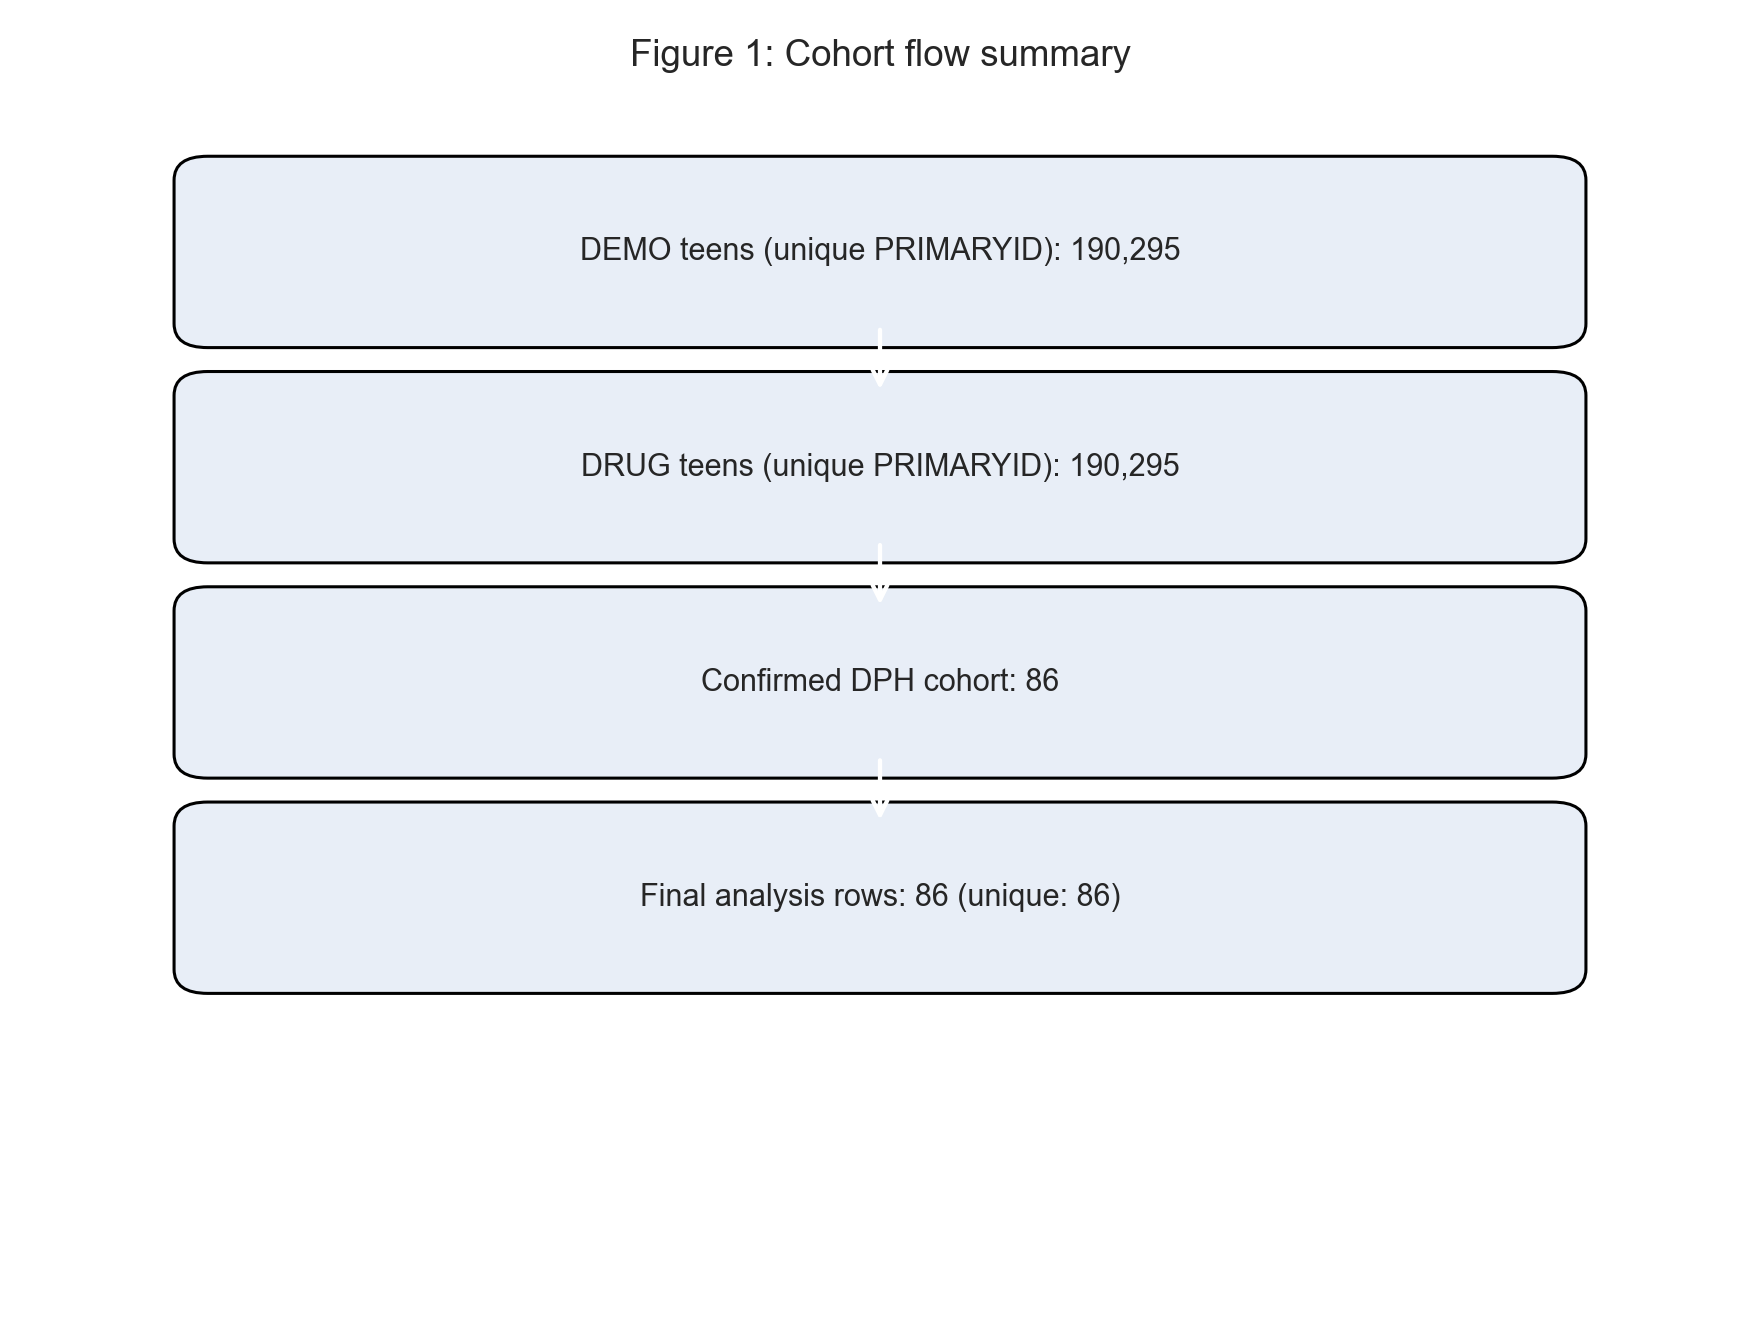
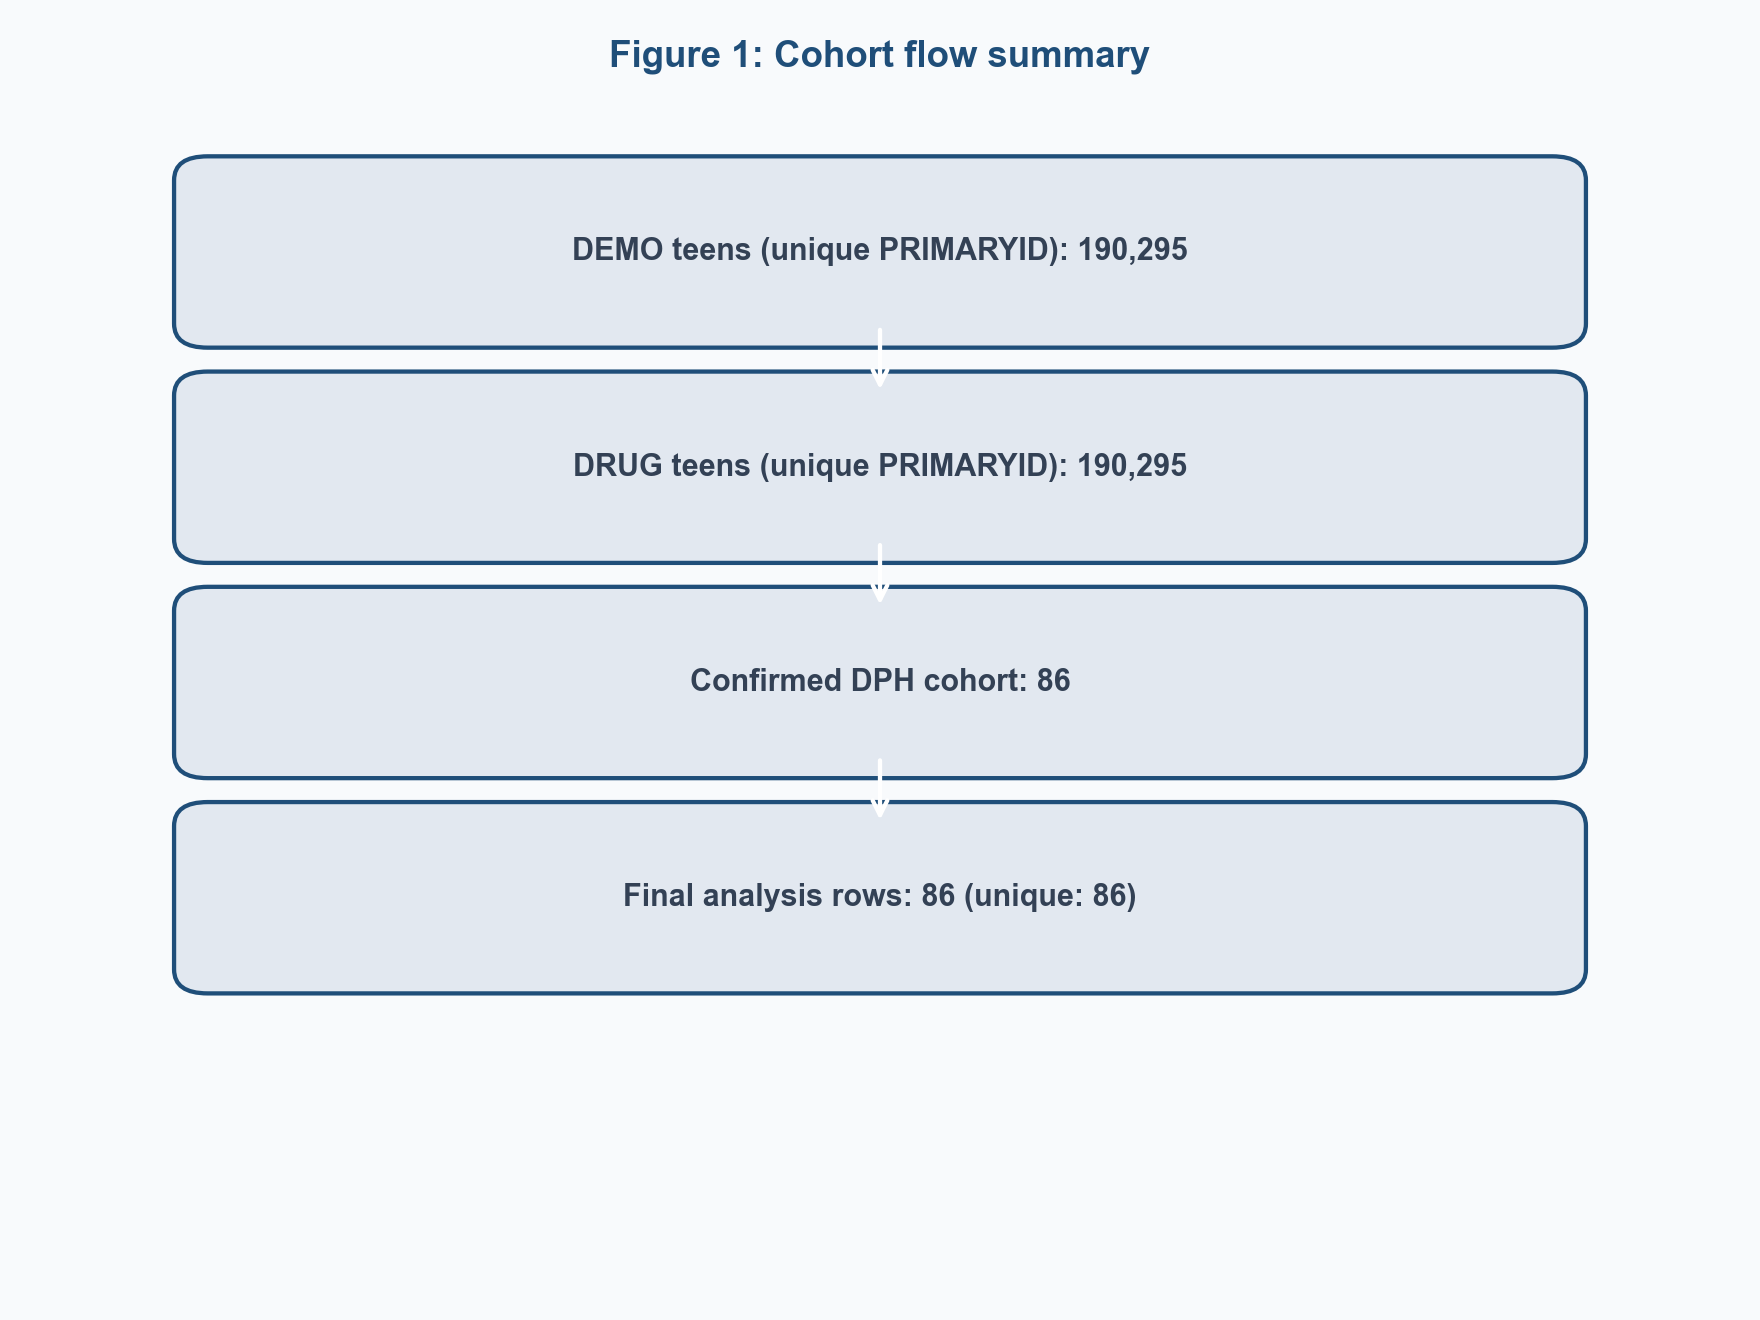
viz: improve figure spacing and readability

diff --git a/06_analysis/run_advanced_analysis.py b/06_analysis/run_advanced_analysis.py
@@ -6,6 +6,7 @@ import pandas as pd
 import matplotlib.pyplot as plt
 import seaborn as sns
 from matplotlib.patches import FancyBboxPatch
+from matplotlib import patheffects
 from scipy.stats import shapiro, mannwhitneyu, kruskal, spearmanr
 import scikit_posthocs as sp
 import statsmodels.formula.api as smf
@@ -21,6 +22,16 @@ TAB_DIR = OUT_DIR / "tables"
 
 for path in [FIG_DIR, TAB_DIR]:
     path.mkdir(parents=True, exist_ok=True)
+
+
+PALETTE = {
+    "blue": "#1f4e79",
+    "teal": "#1f7a8c",
+    "orange": "#f59e0b",
+    "red": "#b91c1c",
+    "slate": "#334155",
+    "bg": "#f8fafc",
+}
 
 
 def p_stars(p: float) -> str:
@@ -140,13 +151,49 @@ def analysis_a_b_c(df: pd.DataFrame) -> pd.DataFrame:
     u_stat, p_mw = mannwhitneyu(g0, g1, alternative="two-sided")
     rows.append({"analysis": "A_mann_whitney_acb_vs_cardiac", "statistic": u_stat, "p_value": p_mw})
 
-    fig, ax = plt.subplots(figsize=(6, 5))
+    fig, ax = plt.subplots(figsize=(7, 5.2))
     plot_df = df.copy()
     plot_df["cardiac_any"] = plot_df["cardiac_any"].map({0: "No Cardiac", 1: "Cardiac"})
-    sns.boxplot(data=plot_df, x="cardiac_any", y="total_acb_codrugs_only", ax=ax)
+    sns.violinplot(
+        data=plot_df,
+        x="cardiac_any",
+        y="total_acb_codrugs_only",
+        hue="cardiac_any",
+        legend=False,
+        inner=None,
+        cut=0,
+        linewidth=0,
+        palette=["#bfdbfe", "#fecaca"],
+        ax=ax,
+    )
+    sns.boxplot(
+        data=plot_df,
+        x="cardiac_any",
+        y="total_acb_codrugs_only",
+        hue="cardiac_any",
+        legend=False,
+        width=0.25,
+        showcaps=True,
+        boxprops={"facecolor": "white", "zorder": 3},
+        medianprops={"color": PALETTE["red"], "linewidth": 2},
+        whiskerprops={"linewidth": 1.5},
+        ax=ax,
+    )
+    sns.stripplot(
+        data=plot_df,
+        x="cardiac_any",
+        y="total_acb_codrugs_only",
+        color=PALETTE["slate"],
+        alpha=0.45,
+        size=4,
+        jitter=0.15,
+        ax=ax,
+    )
     ymax = np.nanmax(plot_df["total_acb_codrugs_only"]) if plot_df["total_acb_codrugs_only"].notna().any() else 1
-    ax.text(0.5, ymax * 1.05 if ymax > 0 else 0.5, f"p={p_mw:.3g} {p_stars(p_mw)}", ha="center")
-    ax.set_title("Figure 2: ACB (co-drugs only) by cardiac outcome")
+    ax.set_ylim(top=ymax * 1.16 if ymax > 0 else 1)
+    ann = ax.text(0.5, ymax * 1.07 if ymax > 0 else 0.5, f"Mann-Whitney p={p_mw:.3g} {p_stars(p_mw)}", ha="center", color=PALETTE["red"], fontweight="bold")
+    ann.set_path_effects([patheffects.withStroke(linewidth=3, foreground="white")])
+    ax.set_title("Figure 2: ACB (co-drugs only) by cardiac outcome", color=PALETTE["blue"], fontweight="bold")
     ax.set_xlabel("Cardiac outcome")
     ax.set_ylabel("Total ACB (co-drugs only)")
     fig.tight_layout()
@@ -160,12 +207,48 @@ def analysis_a_b_c(df: pd.DataFrame) -> pd.DataFrame:
     dunn_df = sp.posthoc_dunn(df, val_col="total_acb_with_dph", group_col="age_group", p_adjust="bonferroni")
     dunn_df.to_csv(TAB_DIR / "posthoc_dunn_age_group.csv")
 
-    fig, ax = plt.subplots(figsize=(7, 5))
+    fig, ax = plt.subplots(figsize=(7.5, 5.2))
     order = ["13-15", "16-17", "18-19"]
-    sns.boxplot(data=df, x="age_group", y="total_acb_with_dph", order=order, ax=ax)
+    sns.boxplot(
+        data=df,
+        x="age_group",
+        y="total_acb_with_dph",
+        order=order,
+        hue="age_group",
+        legend=False,
+        palette=["#dbeafe", "#a7f3d0", "#fde68a"],
+        width=0.55,
+        ax=ax,
+    )
+    sns.stripplot(
+        data=df,
+        x="age_group",
+        y="total_acb_with_dph",
+        order=order,
+        color=PALETTE["slate"],
+        alpha=0.35,
+        size=3.5,
+        jitter=0.2,
+        ax=ax,
+    )
     ymax = np.nanmax(df["total_acb_with_dph"]) if df["total_acb_with_dph"].notna().any() else 1
-    ax.text(1, ymax * 1.05 if ymax > 0 else 0.5, f"Kruskal p={p_kw:.3g} {p_stars(p_kw)}", ha="center")
-    ax.set_title("Figure 3: ACB (with DPH) across age groups")
+    ax.set_ylim(top=ymax * 1.30 if ymax > 0 else 1.5)
+    ax.text(1, ymax * 1.05 if ymax > 0 else 0.5, f"Kruskal p={p_kw:.3g} {p_stars(p_kw)}", ha="center", color=PALETTE["red"], fontweight="bold")
+
+    level_map = {lvl: idx for idx, lvl in enumerate(order)}
+    pair_y = ymax * 1.12 if ymax > 0 else 1
+    for a in order:
+        for b in order:
+            if a >= b:
+                continue
+            pval = dunn_df.loc[a, b]
+            if pd.notna(pval) and pval < 0.05:
+                xa, xb = level_map[a], level_map[b]
+                ax.plot([xa, xa, xb, xb], [pair_y, pair_y * 1.01, pair_y * 1.01, pair_y], color=PALETTE["slate"], lw=1.3)
+                ax.text((xa + xb) / 2, pair_y * 1.015, p_stars(float(pval)), ha="center", va="bottom", color=PALETTE["red"], fontsize=11)
+                pair_y *= 1.06
+
+    ax.set_title("Figure 3: ACB (with DPH) across age groups", color=PALETTE["blue"], fontweight="bold")
     ax.set_xlabel("Age group")
     ax.set_ylabel("Total ACB (with DPH)")
     fig.tight_layout()
@@ -175,9 +258,17 @@ def analysis_a_b_c(df: pd.DataFrame) -> pd.DataFrame:
     rho, p_sp = spearmanr(df["total_acb_codrugs_only"], df["max_severity"], nan_policy="omit")
     rows.append({"analysis": "C_spearman_acb_vs_severity", "statistic": rho, "p_value": p_sp})
 
-    fig, ax = plt.subplots(figsize=(6, 5))
-    sns.regplot(data=df, x="total_acb_codrugs_only", y="max_severity", lowess=True, scatter_kws={"alpha": 0.8}, ax=ax)
-    ax.set_title(f"Figure 4: Spearman ACB vs Severity (rho={rho:.2f}, p={p_sp:.3g})")
+    fig, ax = plt.subplots(figsize=(7, 5.2))
+    sns.regplot(
+        data=df,
+        x="total_acb_codrugs_only",
+        y="max_severity",
+        lowess=True,
+        scatter_kws={"alpha": 0.75, "s": 40, "color": PALETTE["teal"]},
+        line_kws={"color": PALETTE["orange"], "lw": 2.5},
+        ax=ax,
+    )
+    ax.set_title(f"Figure 4: Spearman ACB vs Severity (rho={rho:.2f}, p={p_sp:.3g})", color=PALETTE["blue"], fontweight="bold")
     ax.set_xlabel("Total ACB (co-drugs only)")
     ax.set_ylabel("Max severity")
     fig.tight_layout()
@@ -268,19 +359,19 @@ def logistic_and_forest(df: pd.DataFrame) -> pd.DataFrame:
     forest_df = tbl_full[~tbl_full["term"].eq("Intercept")].copy()
     forest_df = forest_df.sort_values("OR")
 
-    fig, ax = plt.subplots(figsize=(8, max(4, 0.45 * len(forest_df))))
+    fig, ax = plt.subplots(figsize=(9.2, max(4.2, 0.55 * len(forest_df))))
     y = np.arange(len(forest_df))
     has_ci = forest_df["CI_low"].notna().all() and forest_df["CI_high"].notna().all()
     if has_ci:
-        ax.hlines(y, forest_df["CI_low"], forest_df["CI_high"], color="#4C78A8", lw=2)
-    ax.scatter(forest_df["OR"], y, color="#F58518", s=40, zorder=3)
+        ax.hlines(y, forest_df["CI_low"], forest_df["CI_high"], color=PALETTE["teal"], lw=2.3)
+    ax.scatter(forest_df["OR"], y, color=PALETTE["orange"], s=55, zorder=3, edgecolor="white", linewidth=0.8)
     ax.axvline(1.0, color="black", ls="--", lw=1)
     ax.set_yticks(y)
     ax.set_yticklabels(forest_df["term"])
     ax.set_xscale("log")
     ax.set_xlabel("Odds Ratio (log scale)")
-    ax.set_title("Figure 5: Logistic regression ORs (95% CI)")
-    fig.tight_layout()
+    ax.set_title("Figure 5: Logistic regression ORs (95% CI)", color=PALETTE["blue"], fontweight="bold")
+    fig.subplots_adjust(left=0.34, right=0.98, top=0.90, bottom=0.12)
     fig.savefig(FIG_DIR / "figure5_forest_logit_full.png", dpi=220)
     plt.close(fig)
 
@@ -300,14 +391,14 @@ def plot_flowchart(counts: dict[str, int]) -> None:
     ]
 
     for (x, y, w, h, text) in boxes:
-        rect = FancyBboxPatch((x, y), w, h, boxstyle="round,pad=0.02", edgecolor="black", facecolor="#E8EEF7")
+        rect = FancyBboxPatch((x, y), w, h, boxstyle="round,pad=0.02,rounding_size=0.02", edgecolor=PALETTE["blue"], facecolor="#e2e8f0", linewidth=1.4)
         ax.add_patch(rect)
-        ax.text(x + w / 2, y + h / 2, text, ha="center", va="center", fontsize=10)
+        ax.text(x + w / 2, y + h / 2, text, ha="center", va="center", fontsize=10, color=PALETTE["slate"], fontweight="bold")
 
     for y1, y2 in [(0.80, 0.74), (0.62, 0.56), (0.44, 0.38)]:
         ax.annotate("", xy=(0.5, y2), xytext=(0.5, y1), arrowprops=dict(arrowstyle="->", lw=1.4))
 
-    ax.set_title("Figure 1: Cohort flow summary", fontsize=12)
+    ax.set_title("Figure 1: Cohort flow summary", fontsize=12, color=PALETTE["blue"], fontweight="bold")
     fig.tight_layout()
     fig.savefig(FIG_DIR / "figure1_flowchart.png", dpi=220)
     plt.close(fig)
@@ -340,8 +431,32 @@ def save_summary(counts: dict[str, int], norm: pd.DataFrame, tests: pd.DataFrame
     (OUT_DIR / "analysis_summary.md").write_text("\n".join(lines), encoding="utf-8")
 
 
+def make_dashboard() -> None:
+    fig = plt.figure(figsize=(14, 10), facecolor=PALETTE["bg"], constrained_layout=True)
+    gs = fig.add_gridspec(2, 2, wspace=0.25, hspace=0.3)
+
+    files = [
+        FIG_DIR / "figure1_flowchart.png",
+        FIG_DIR / "figure2_acb_cardiac_boxplot.png",
+        FIG_DIR / "figure4_spearman_acb_severity.png",
+        FIG_DIR / "figure5_forest_logit_full.png",
+    ]
+    titles = ["Cohort Flow", "ACB vs Cardiac", "ACB vs Severity", "Adjusted Logistic ORs"]
+
+    for i, (img_path, title) in enumerate(zip(files, titles)):
+        ax = fig.add_subplot(gs[i // 2, i % 2])
+        img = plt.imread(img_path)
+        ax.imshow(img)
+        ax.axis("off")
+        ax.set_title(title, fontsize=12, fontweight="bold", color=PALETTE["blue"], pad=10)
+
+    fig.suptitle("Integrated Statistical Dashboard: Adolescent Diphenhydramine FAERS Cohort", fontsize=15, fontweight="bold", color=PALETTE["blue"])
+    fig.savefig(FIG_DIR / "figure6_dashboard_overview.png", dpi=240)
+    plt.close(fig)
+
+
 if __name__ == "__main__":
-    sns.set_theme(style="whitegrid")
+    sns.set_theme(style="whitegrid", rc={"axes.facecolor": "#ffffff", "figure.facecolor": PALETTE["bg"]})
 
     counts = flow_counts()
     plot_flowchart(counts)
@@ -353,6 +468,7 @@ if __name__ == "__main__":
     fit = logistic_and_forest(df)
 
     save_summary(counts, norm, tests, fit)
+    make_dashboard()
 
     (OUT_DIR / "run_metadata.json").write_text(
         json.dumps({
